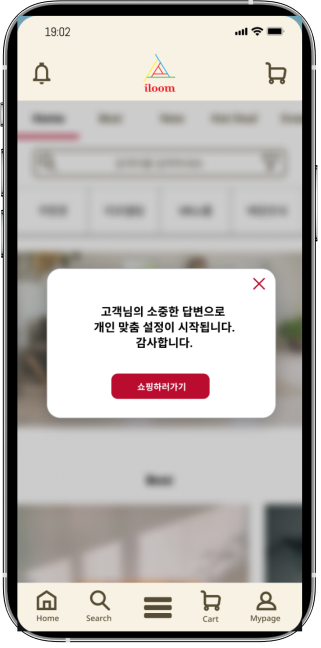
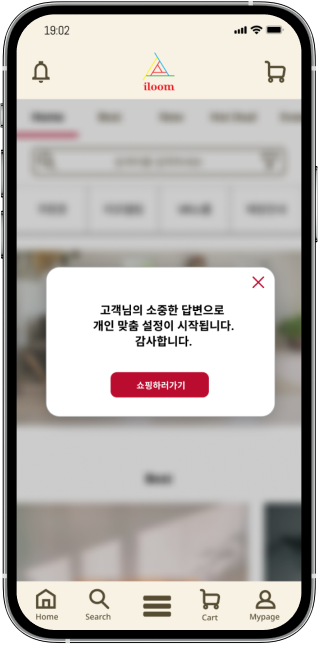
아이템 위치조정

diff --git a/docs/pf/work1/index.html b/docs/pf/work1/index.html
@@ -32,27 +32,27 @@
 
 <body>
     <div class="site-wrap">
-        <section class="section section-1 relative">
+        <section class="section section-1">
             <div>
                 <img src="resource/01. 시작페이지.png" alt="">
             </div>
-            <div class="section-1__item box-1">
+            <div class="section__item box-1">
                 <img src="resource/01. 시작페이지-아이템.png" alt="">
             </div>
         </section>
-        <section class="section section-2 relative">
+        <section class="section section-2">
             <div>
                 <img src="resource/02. 개요.png" alt="">
             </div>
-            <div class="section-1__item box-2">
+            <div class="section__item box-2">
                 <img src="resource/02. 개요-아이템.png" alt="">
             </div>
         </section>
-        <section class="section section-3 relative">
+        <section class="section section-3">
             <div>
                 <img src="resource/03. 디자인.png" alt="">
             </div>
-            <div class="section-1__item box-3">
+            <div class="section__item box-3">
                 <img src="resource/03. 디자인-아이템.png" alt="">
             </div>
         </section>
@@ -60,56 +60,56 @@
             <div>
                 <img src="resource/04. 와이어프레임.png" alt="">
             </div>
-            <div class="section-1__item box-4">
+            <div class="section__item box-4">
                 <img src="resource/04. 와이어프레임-아이템.png" alt="">
             </div>
         </section>
-        <section class="section section-5 relative">
+        <section class="section section-5">
             <div>
                 <img src="resource/05. 스플래쉬.png" alt="">
             </div>
-            <div class="section-1__item box-5">
+            <div class="section__item box-5">
                 <img src="resource/" alt="">
             </div>
         </section>
-        <section class="section section-6 relative">
+        <section class="section section-6">
             <div>
                 <img src="resource/06. 설문조사.png" alt="">
             </div>
-            <div class="section-1__item box-6-1">
+            <div class="section__item box-6-1">
                 <img src="resource/06. 설문조사-아이템-01.png" alt="">
             </div>
-            <div class="section-1__item box-6-2">
+            <div class="section__item box-6-2">
                 <img src="resource/06. 설문조사-아이템-02.png" alt="">
             </div>
         </section>
-        <section class="section section-7 relative">
+        <section class="section section-7">
             <div>
                 <img src="resource/07. 메인페이지 및 파생.png" alt="">
-                <div class="section-1__item box-7-1">
+                <div class="section__item box-7-1">
                     <img src="resource/07. 메인페이지 및 파생-아이템-01.png" alt="">
                 </div>
-                <div class="section-1__item box-7-2">
+                <div class="section__item box-7-2">
                     <img src="resource/07. 메인페이지 및 파생-아이템-02.png" alt="">
                 </div>
-                <div class="section-1__item box-7-3">
+                <div class="section__item box-7-3">
                     <img src="resource/07. 메인페이지 및 파생-아이템-03.png" alt="">
                 </div>
             </div>
         </section>
-        <section class="section section-8">
+        <section class="section section-8 z-10">
             <div>
                 <img src="resource/08. 카테고리 및 필터.png" alt="">
             </div>
-            <div class="section-1__item box-8-1">
+            <div class="section__item box-8-1">
                 <img src="resource/08. 카테고리 및 필터-아이템-01.png" alt="">
             </div>
         </section>
-        <section class="section section-9 relative">
+        <section class="section section-9">
             <div>
                 <img src="resource/09. 나머지.png" alt="">
             </div>
-            <div class="section-1__item box-9">
+            <div class="section__item box-9">
                 <img src="resource/09. 나머지-아이템.png" alt="">
             </div>
         </section>
@@ -117,7 +117,7 @@
             <div>
                 <img src="resource/10. 마무리.png" alt="">
             </div>
-            <div class="section-1__item box-10">
+            <div class="section__item box-10">
                 <img src="resource/10. 마무리-아이템.png" alt="">
             </div>
         </section>

diff --git a/docs/pf/work1/index.css b/docs/pf/work1/index.css
@@ -39,3 +39,75 @@ body::-webkit-scrollbar {
   .section {
     width:calc(1920px - 16px);
   }
+
+  .section {
+    position: relative;
+  }
+
+  .section__item {
+    position: absolute;
+    top:0;
+  }
+
+  .box-1 {
+    right:-80px;
+    top:-20%;
+  }
+
+  .box-2 {
+    top:50%;
+    transform: translateY(-50%);
+  }
+
+  .box-3 {
+    top:125px;
+    left:162px;
+  }
+
+  .box-4 {
+    top:364px;
+    left:162px;
+  }
+
+  .box-6-1 {
+    top:200px;
+    left:20px;
+  }
+
+  .box-6-2 {
+    top:400px;
+    right:220px;
+  }
+
+  .box-7-1 {
+    top:382px;
+    left:209px;
+  }
+
+  .box-7-2 {
+    top:1063px;
+    right:142px;
+  }
+
+  .box-7-3 {
+    top:1907px;
+    right:142px;
+  }
+
+  .box-8-1 {
+    top:200px;
+    left:50%;
+    transform: translateX(-50%);
+  }
+
+  .box-9 {
+    top:50%;
+    left: 50%;
+    transform: translate(-50%, -50%);
+  }
+
+  .box-10 {
+    top:432px;
+    left:50%;
+    transform: translateX(-50%);
+  }
